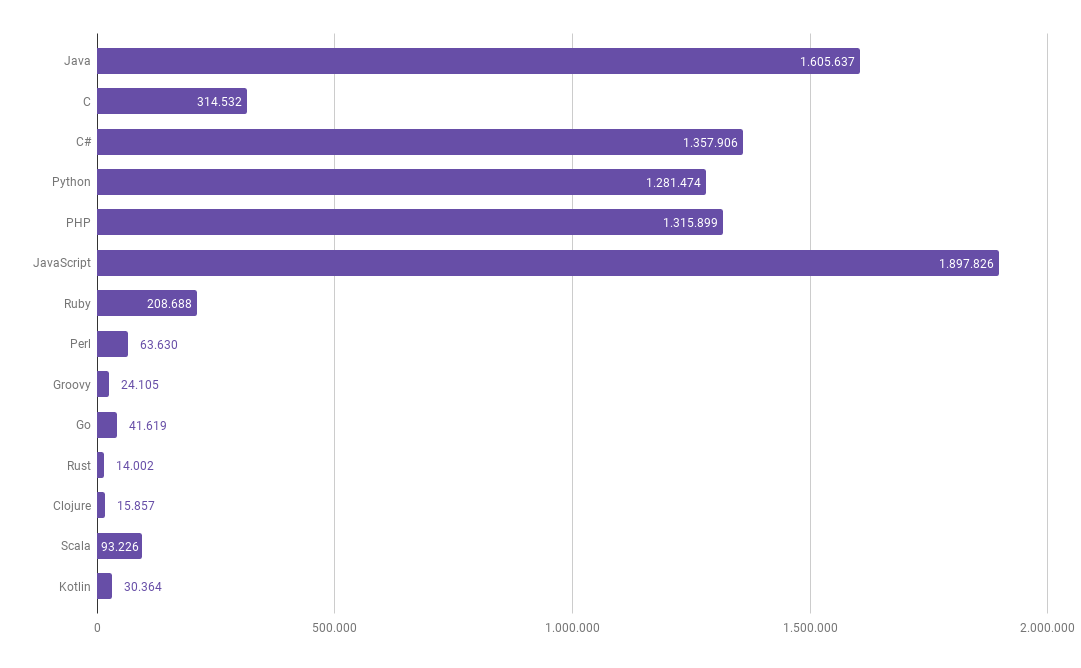
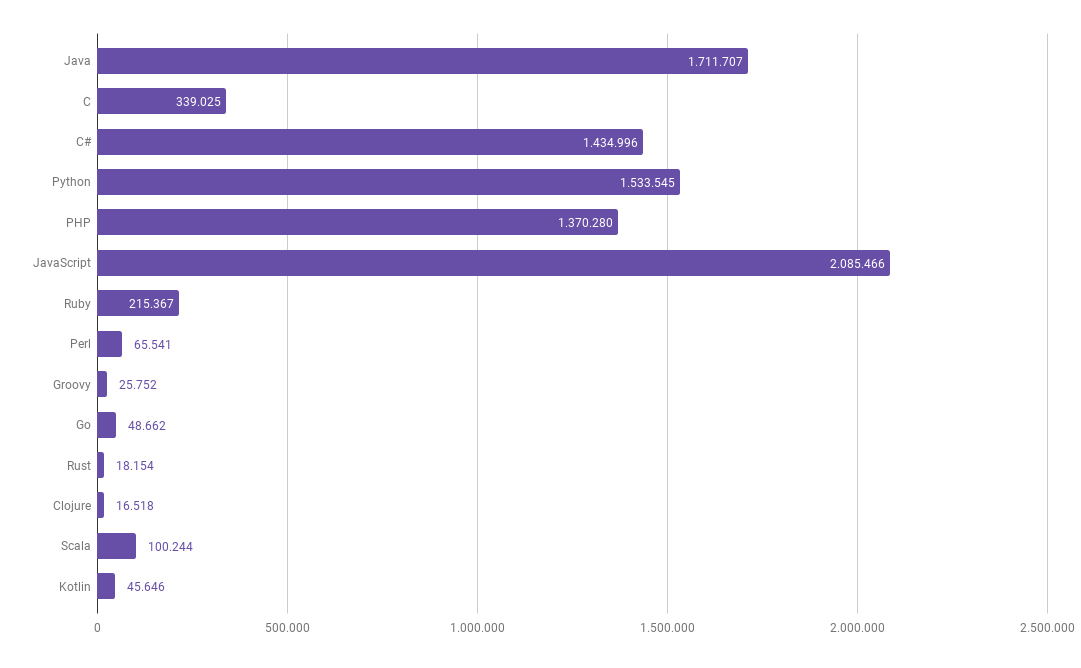
Stackoverflow activity updated

diff --git a/index.html b/index.html
@@ -302,7 +302,7 @@
 				<div class="slide-content">
 					<img src="img/activity_StackOverflow.png" alt="Activity in StackOverflow" class="img_full full_height" />
 					<div class="source">
-						<p>Source: <a href="http://stackoverflow.com/tags">StackOverflow.com/tags</a> (Nov 2019)</p>
+						<p>Source: <a href="http://stackoverflow.com/tags">StackOverflow.com/tags</a> (Sep 2020)</p>
 					</div>
 				</div>
 			</section>
